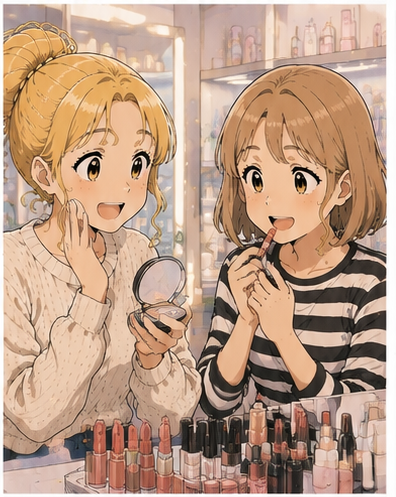
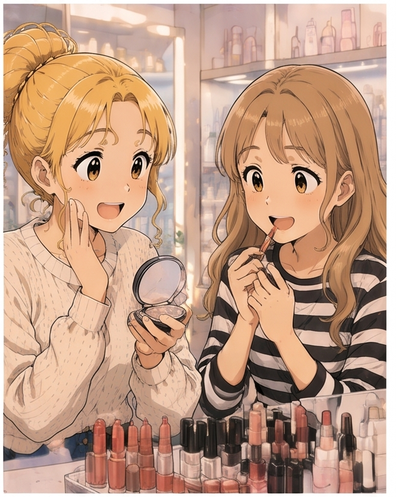
K-PATTO: replace ep28 and ep30 cut images (hair fix, watermark removed)
New 1312x3264 sources for ep28 (Sophie's hair corrected) and ep30, cut at
the gutter midpoints into the existing 5 files each at the same names and
sizes; Gemini sparkle removed. kpatto-replace-cuts.py gains --only to
process just the named episodes.

diff --git a/scripts/kpatto-replace-cuts.py b/scripts/kpatto-replace-cuts.py
@@ -166,13 +166,15 @@ def main():
     ap.add_argument('--backup', required=True)
     ap.add_argument('--preview', help='워터마크 지운 원본 전체를 저장할 폴더(확인용)')
     ap.add_argument('--dry-run', action='store_true')
+    ap.add_argument('--only', help='이 화만 처리 (쉼표로 구분, 예: 28 또는 28,42)')
     args = ap.parse_args()
 
     sources = {int(re.match(r'ep(\d+)', os.path.basename(p)).group(1)): p
                for p in glob.glob(os.path.join(args.src, 'ep*.*'))}
-    alphas = estimate_alpha([sources[int(n[2:])] for n in ALPHA_REFS])
+    alphas = estimate_alpha([sources[int(n[2:])] for n in ALPHA_REFS if int(n[2:]) in sources])
+    only = {int(x) for x in args.only.split(',')} if args.only else set(sources)
 
-    for ep in sorted(sources):
+    for ep in sorted(only & set(sources)):
         img = load(sources[ep])
         h, w = img.shape[:2]
         score = has_watermark(img)
